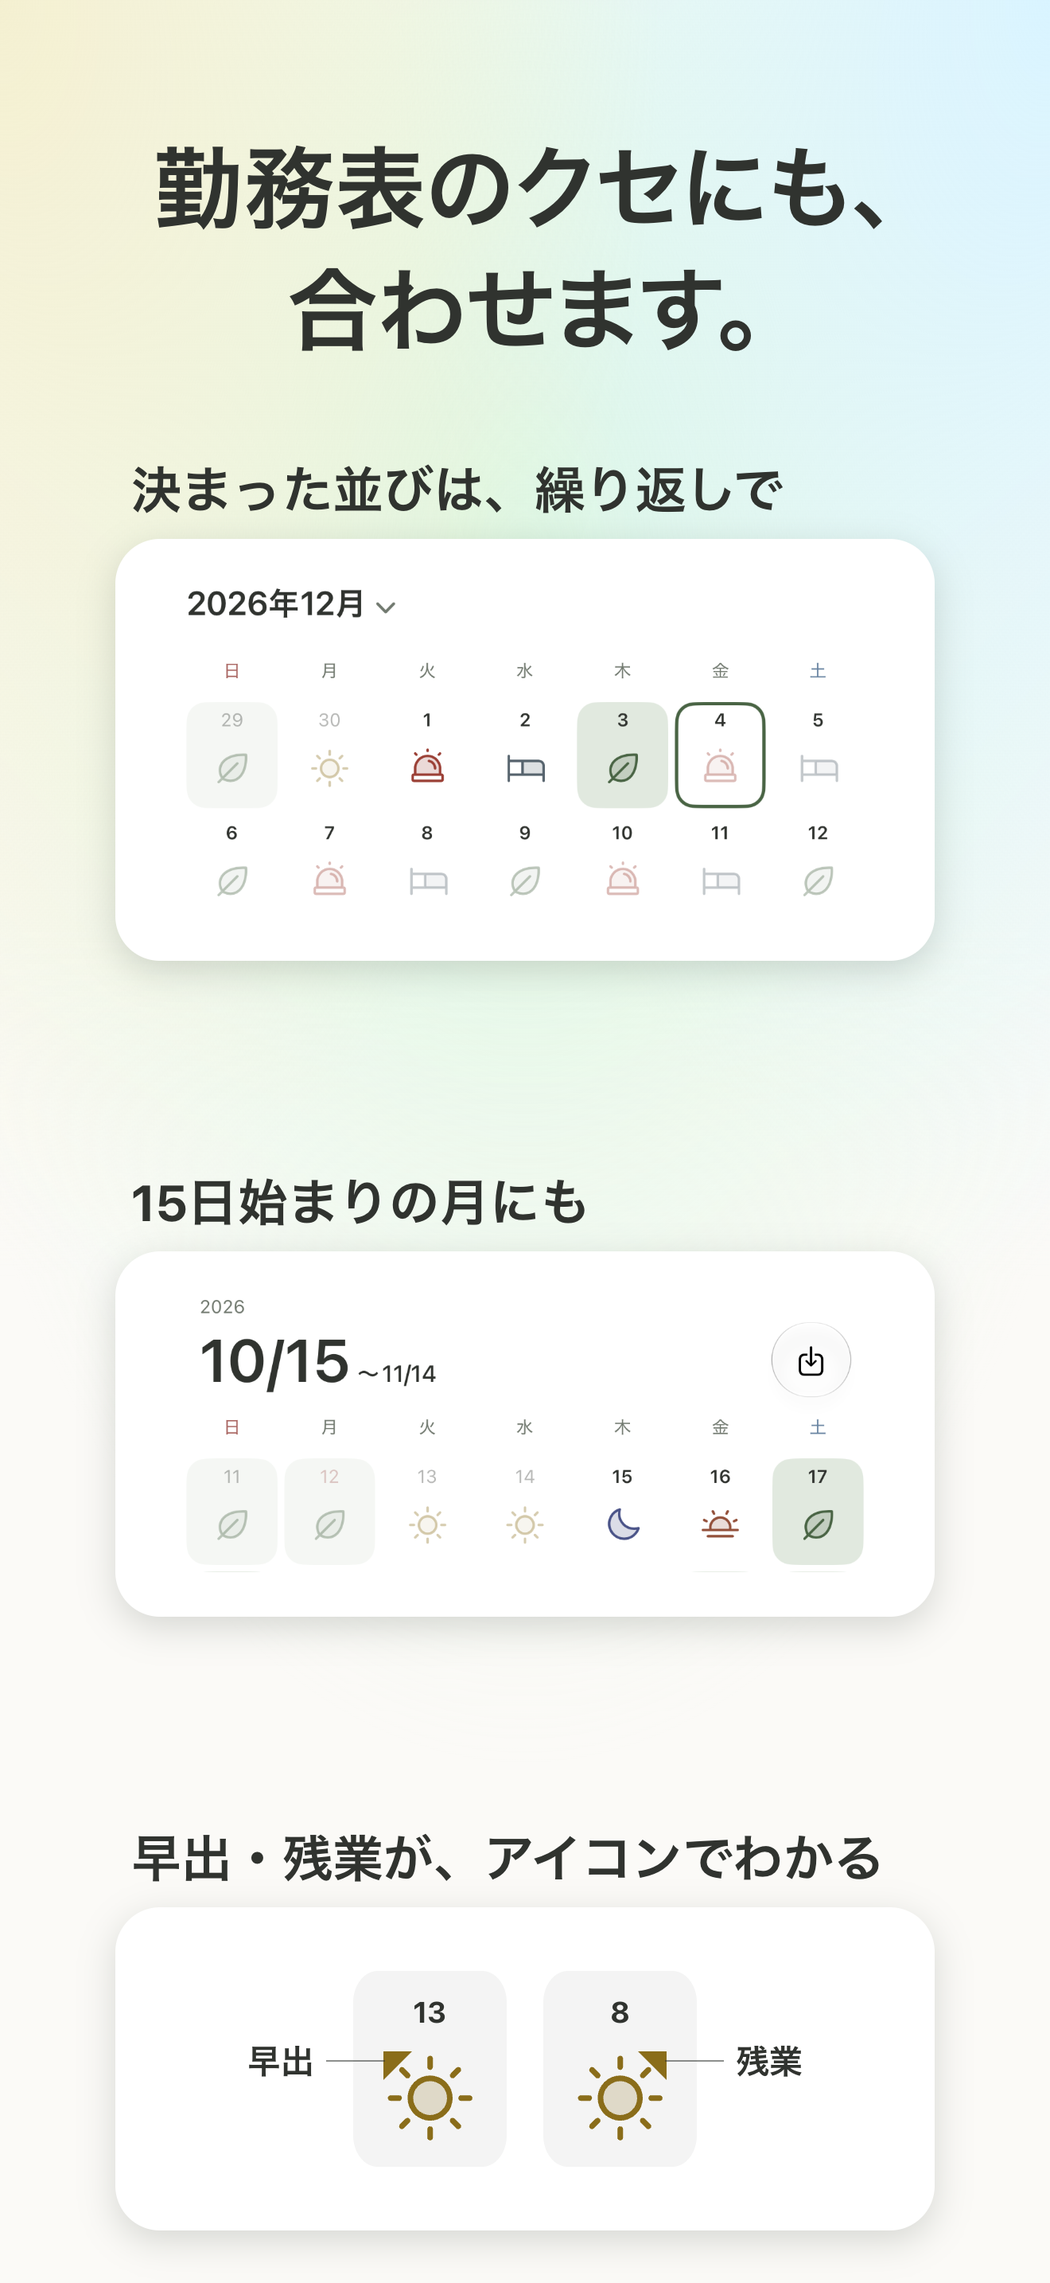
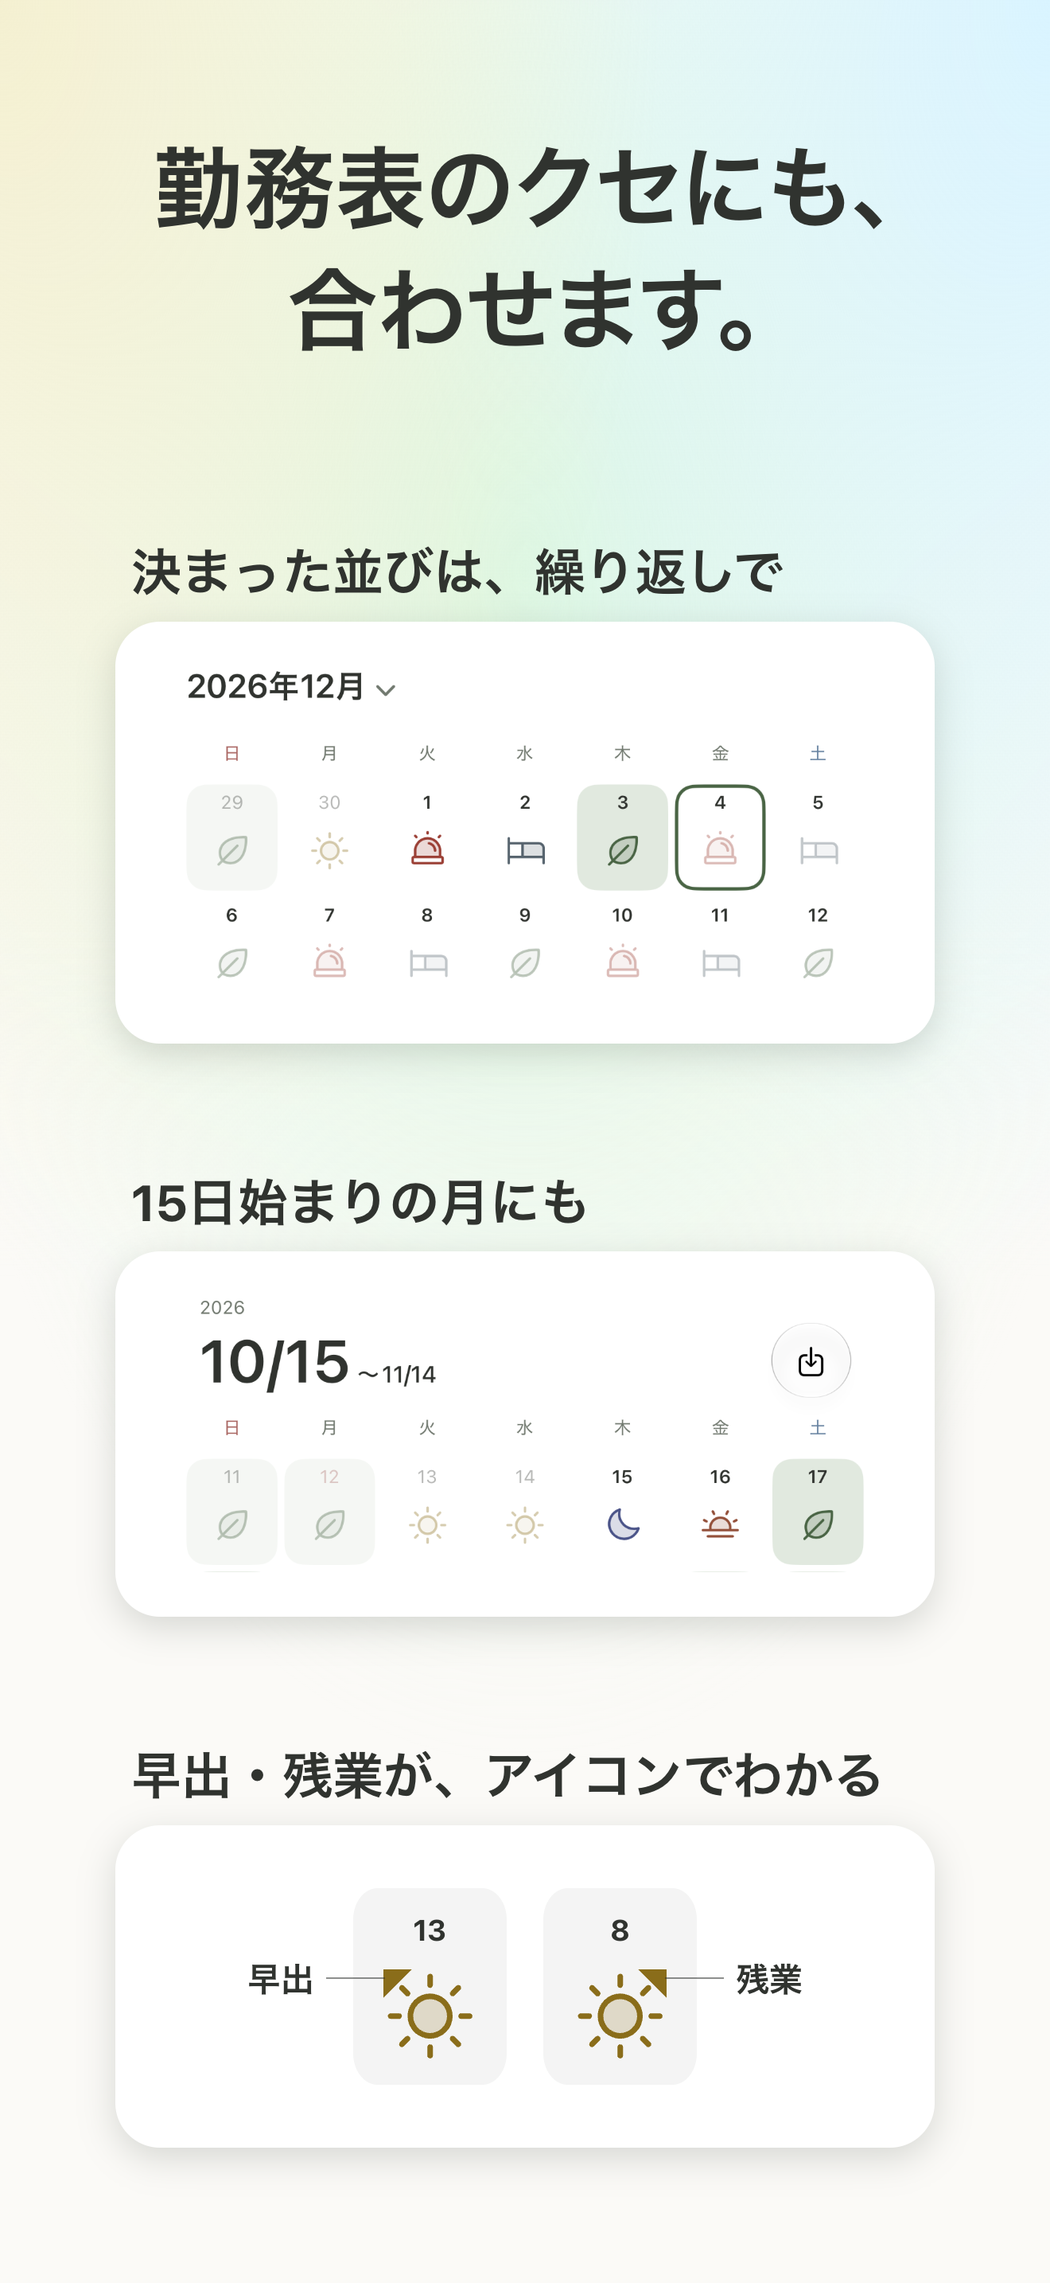
Store pictures: the tiles a group of their own in the App Store's taller picture, the room left over above and under them alike (#806)

diff --git a/apps/design/src/routes/_tool/[_]render/store-shot.tsx b/apps/design/src/routes/_tool/[_]render/store-shot.tsx
@@ -83,7 +83,7 @@ const WIDGET_CELL = `calc(var(--u) * ${WALL_SHAPE.cell})`;
 const TILES = {
   gap: 8,
   line: 1.3,
-  most: 28,
+  most: 12,
   pad: 4.25,
   under: 1.6,
   widest: 78,
@@ -95,7 +95,8 @@ const TILES = {
 // holds a part as tall as `parts` says in its widths; they are as wide as
 // lets them all fit there with the least gap, and share the room they
 // leave evenly as the gaps between them, up to the most a gap may be,
-// beyond which the rest is sky at the foot.
+// beyond which the rest is sky over and under them alike: they are a group
+// of their own, not a phone, in a picture as tall as the App Store's.
 const tilesLie = (parts: number[], tall: number) => {
   const gaps = Math.max(parts.length - 1, 1);
   const room =
@@ -201,14 +202,15 @@ const styles = {
     paddingLeft: "calc(var(--u) * 1.5)",
     whiteSpace: "nowrap",
   }),
-  // The tiles one over the other, each as tall as its part is, from where a
-  // phone starts under the headline (tilesLie).
+  // The tiles one over the other, each as tall as its part is, in the middle
+  // of where a phone is under the headline (tilesLie).
   tiles: css({
     "& figure": { margin: 0 },
     alignItems: "center",
     display: "flex",
     flexDirection: "column",
     inset: `var(--headline) 0 calc(var(--u) * ${STAGE_FOOT})`,
+    justifyContent: "center",
     position: "absolute",
   }),
   // The widgets on a Home Screen's grid, tilted, running off every edge

diff --git a/AGENTS.md b/AGENTS.md
@@ -14,7 +14,7 @@ Pochical is a monorepo: native SwiftUI (`apps/ios`) and Jetpack Compose (`apps/a
   - ライセンス's list of libraries is generated by each app's build, never checked in (spec/calendar.md, ライセンス): on iOS by LicenseList's build plugin from the resolved Swift packages' checkouts (`PLL_SOURCE_PACKAGES_PATH` names them when `-clonedSourcePackagesDirPath` moves them, as CI's `ios` job does), on Android by AboutLibraries' Gradle plugin into each variant's `res/raw/aboutlibraries.json`, with what the app carries besides its dependencies in `apps/android/app/aboutlibraries/libraries`.
   - Icons: the marks' paths from Phosphor via `pnpm --dir design icon:marks`; the iOS app icons and the widgets' `PeekingPoodle` via `pnpm --dir packages/prototype icon:ios`, and Android's launcher icon (its `mipmap` layers and the background color) and the Play listing's 512-pixel icon (`apps/android/app/src/main/ic_launcher-playstore.png`) and the widgets' `widget_poodle` via `icon:android`, both painting with `scripts/app-icon.ts` as the site icon's `icon:site` does.
   - try's installable app (`apps/try/public/app`): the icons, iOS's launch images and the web app manifest via `pnpm --dir apps/try icon:app` (`scripts/app-assets.ts`), and the manifest's screenshots, the screens `src/lib/app-screenshots.ts` names, via `image:screens`, which photographs the app on a dev server of its own as apps/design's `image:share` photographs the share image, both through `@pochical/prototype`'s `scripts/photograph.ts`. A change to that list runs both.
-  - The stores' pictures (`store/screenshots/<store>`, Google Play's feature graphic, `store/feature-graphic.png`, and the App Store's product page header, `store/product-page-header.png`): the shots, their headlines and each store's size in `@pochical/prototype`'s `lib/store-shots.ts` → `ANDROID_SERIAL=emulator-<port> mise run store:screenshots`. It photographs the real apps' screens into `.build/store-screenshots/<store>`, under the same names on both platforms, each against a server it starts and `tools/store-screenshots/seed.ts` seeds with two groups made by one piece, the coworkers' and a group of friends, each person's photo one of the faces' drawings (`design/src/drawings`) (`store:shots:android`: `StoreScreenshots` on the running emulator `ANDROID_SERIAL` names, never a phone, the widgets drawn there by themselves from the app's own days; `store:shots:ios`: `StoreScreenshotTests` in a simulator of its own, `pochical-store`, the widgets put on its Home Screen), then draws each on the site's sky under its headline (`store:images`: apps/design's `image:store`, which photographs `/_render/store-shot` as `image:share` does the share image, for each store whose screens are there). The seed runs beside the capture: it makes the groups, writes their invitations, and writes the coworkers' chat only once the person photographed has joined, so the chat says every joining above its lines, and more lines than a screen holds keep them out of the picture, among them two photographs sent at once (`tools/store-screenshots/photos`, whose README names where each is from; a JPEG put there under the same name is sent in its place); the capture reads the chat to its latest line, opens it again, and photographs it there. The status bar says 9:41 in every picture, whenever the run is, and the chat's lines the time they were written; Android's is SystemUI's demo, entered once the emulator is on its Wi-Fi, as one entered in the seconds after a boot shows a second Wi-Fi icon to its end. Every look is set through the app's own settings: a raw file or folder named `-sumi` is in black and white (テーマ 墨, シフトの色 ワントーン, シフトの見た目 線, 休みの見せ方 印だけ, 色をつける日 off), one named `-letters` has the shifts as letters (シフトの見た目 文字, テーマ ソーダ), the rest as the app starts. The wall of widgets is placed by hand (the shot's `tiles`: which widget, in which look, in which cell of `WALL`), from every kind at each size it has for a Home Screen, those that can be set to someone set to a person and to the group too, and those today's shift changes on each of the sample's (a day off, 日勤, 夜勤, 明け: the capture enters it for today in ポチポチ入力 and photographs them in both looks before it enters the next), in the app's look and in 墨: medium and large widgets carry it, small ones are its accents. 次の休み counting to a day off, 次の休み on a day off and いまのシフト are marked `whole` and stand together where the eye lands, whole in each store's picture and in what every picture drawn from the wall shows on every device; no picture is beside itself. Entering a shift takes a day's own hours off it (早出, 残業) and 夜勤 gives the day after its 明け, and nothing is put back: every picture of the month is taken before the widgets, ポチポチ入力's among them, whose days taken out are entered again by the tray's keys and the month checked to say what it did before; the widgets' shifts go in the order that leaves each the days it shows as the sample has them. いまのシフト draws its ring only while a shift is on, so after the widgets a run enters one of the sample's shifts that is on at that hour and photographs that widget again, in the app's look, once it says the shift is on (before 9:00 that shift is the day before's 夜勤, which the month's page has no day for on the 1st: the run is not started then, and says to run from 9:00). A widget is photographed once it says the days it is to show (iOS; Android draws it from what the app holds then), and a run fails when a widget asked for is not there, when the seed's last checks fail, when the port already has a server, or when the emulator's settings are not all put back. The friends' group is joined as まい with ひよこ picked for a face, in place of the drawing a new person is given at random, and the coworkers' as 佐藤, there alone. A shot of one screen may lift the part its headline is about (its `callout`): the capture measures that part by its element, and every piece of the screen that says something, into `<raw>.json` (on Android as Compose lays them out, the accessibility tree giving a button smaller than a finger the larger place it takes touches in), and the picture draws the part again, larger (as large as keeps a row as wide as the screen inside the picture, 1.35 times at most), on a card over where it is in the phone; a piece the card would lie over a part of, on any side, it takes in whole, so nothing shows cut beside it, and the part is drawn in the card's middle, whole lines of the screen with their own room. The friends' table lifts the days everyone is off, the chat its poll's line (on iOS with the line that asks for it), 端末カレンダーに追加 its 自動で反映. The details' shot and the cares' are three tiles each, from where a phone starts under the headline to where it ends, the room they leave shared evenly between them up to the most a gap may be, a tile a card of the picture's with room inside it, on the ground of what it holds: a part of a screen its platform's UI test cuts at whole rows, from the top of one of the screen's own pieces to the foot of another, or pieces the page draws from the app's own marks, larger than a screen has them, with words and lines of the picture's that say what happens (the shot's `pieces`). Each tile holds only what makes its point. A part's file is named for what it is (`tile-<what>.png`), not for the shot it is in. The details', how a roster itself is: two weeks of 繰り返しを直す on a fixed cycle, a run's last step but one as it changes the job, to the ready-made 当番・非番・休み from next month's 1st, 当番 and 休み then named 当務 and 週休; the first week of a page of a シフトの期間 from the 15th under its heading, set in 設定 and put back; and a day of 早出 and one of 残業 with their marks' corners named, drawn. The cares', what the app does for the person: 夜勤's key pressed and the two days it fills, the second the app's doing, drawn; リマインド's reminder of the evening before, the next notification as its page draws it, before anything is changed; and グループの設定's rows of a group with an end, 忘年会, made in グループを作る with the day 終了日をつける offers, a run's very last step as it leaves a group. The wall is drawn in other pictures too, the list `WALL_PICTURES`: each its name, size, file, the store whose widgets it shows, where the wall lies in it (`lie`, as in a store's picture without), the line it carries (`line`, the wall clearing to the sky around it, none without) and the part of it every device shows (`safe`, which holds the line and the widgets marked `whole`, anywhere without). The App Store's product page header is the first: the wall across 3840×1646, the site's line beside the three widgets, both inside the art safe area measured from Apple's template. A change to that page or to a headline runs `store:images` alone, the screens still in `.build`; a change to an app's screens runs its `store:shots:*` and `store:images`.
+  - The stores' pictures (`store/screenshots/<store>`, Google Play's feature graphic, `store/feature-graphic.png`, and the App Store's product page header, `store/product-page-header.png`): the shots, their headlines and each store's size in `@pochical/prototype`'s `lib/store-shots.ts` → `ANDROID_SERIAL=emulator-<port> mise run store:screenshots`. It photographs the real apps' screens into `.build/store-screenshots/<store>`, under the same names on both platforms, each against a server it starts and `tools/store-screenshots/seed.ts` seeds with two groups made by one piece, the coworkers' and a group of friends, each person's photo one of the faces' drawings (`design/src/drawings`) (`store:shots:android`: `StoreScreenshots` on the running emulator `ANDROID_SERIAL` names, never a phone, the widgets drawn there by themselves from the app's own days; `store:shots:ios`: `StoreScreenshotTests` in a simulator of its own, `pochical-store`, the widgets put on its Home Screen), then draws each on the site's sky under its headline (`store:images`: apps/design's `image:store`, which photographs `/_render/store-shot` as `image:share` does the share image, for each store whose screens are there). The seed runs beside the capture: it makes the groups, writes their invitations, and writes the coworkers' chat only once the person photographed has joined, so the chat says every joining above its lines, and more lines than a screen holds keep them out of the picture, among them two photographs sent at once (`tools/store-screenshots/photos`, whose README names where each is from; a JPEG put there under the same name is sent in its place); the capture reads the chat to its latest line, opens it again, and photographs it there. The status bar says 9:41 in every picture, whenever the run is, and the chat's lines the time they were written; Android's is SystemUI's demo, entered once the emulator is on its Wi-Fi, as one entered in the seconds after a boot shows a second Wi-Fi icon to its end. Every look is set through the app's own settings: a raw file or folder named `-sumi` is in black and white (テーマ 墨, シフトの色 ワントーン, シフトの見た目 線, 休みの見せ方 印だけ, 色をつける日 off), one named `-letters` has the shifts as letters (シフトの見た目 文字, テーマ ソーダ), the rest as the app starts. The wall of widgets is placed by hand (the shot's `tiles`: which widget, in which look, in which cell of `WALL`), from every kind at each size it has for a Home Screen, those that can be set to someone set to a person and to the group too, and those today's shift changes on each of the sample's (a day off, 日勤, 夜勤, 明け: the capture enters it for today in ポチポチ入力 and photographs them in both looks before it enters the next), in the app's look and in 墨: medium and large widgets carry it, small ones are its accents. 次の休み counting to a day off, 次の休み on a day off and いまのシフト are marked `whole` and stand together where the eye lands, whole in each store's picture and in what every picture drawn from the wall shows on every device; no picture is beside itself. Entering a shift takes a day's own hours off it (早出, 残業) and 夜勤 gives the day after its 明け, and nothing is put back: every picture of the month is taken before the widgets, ポチポチ入力's among them, whose days taken out are entered again by the tray's keys and the month checked to say what it did before; the widgets' shifts go in the order that leaves each the days it shows as the sample has them. いまのシフト draws its ring only while a shift is on, so after the widgets a run enters one of the sample's shifts that is on at that hour and photographs that widget again, in the app's look, once it says the shift is on (before 9:00 that shift is the day before's 夜勤, which the month's page has no day for on the 1st: the run is not started then, and says to run from 9:00). A widget is photographed once it says the days it is to show (iOS; Android draws it from what the app holds then), and a run fails when a widget asked for is not there, when the seed's last checks fail, when the port already has a server, or when the emulator's settings are not all put back. The friends' group is joined as まい with ひよこ picked for a face, in place of the drawing a new person is given at random, and the coworkers' as 佐藤, there alone. A shot of one screen may lift the part its headline is about (its `callout`): the capture measures that part by its element, and every piece of the screen that says something, into `<raw>.json` (on Android as Compose lays them out, the accessibility tree giving a button smaller than a finger the larger place it takes touches in), and the picture draws the part again, larger (as large as keeps a row as wide as the screen inside the picture, 1.35 times at most), on a card over where it is in the phone; a piece the card would lie over a part of, on any side, it takes in whole, so nothing shows cut beside it, and the part is drawn in the card's middle, whole lines of the screen with their own room. The friends' table lifts the days everyone is off, the chat its poll's line (on iOS with the line that asks for it), 端末カレンダーに追加 its 自動で反映. The details' shot and the cares' are three tiles each, within where a phone is under the headline, the room they leave shared evenly between them up to the most a gap may be and the rest left over and under them alike, a tile a card of the picture's with room inside it, on the ground of what it holds: a part of a screen its platform's UI test cuts at whole rows, from the top of one of the screen's own pieces to the foot of another, or pieces the page draws from the app's own marks, larger than a screen has them, with words and lines of the picture's that say what happens (the shot's `pieces`). Each tile holds only what makes its point. A part's file is named for what it is (`tile-<what>.png`), not for the shot it is in. The details', how a roster itself is: two weeks of 繰り返しを直す on a fixed cycle, a run's last step but one as it changes the job, to the ready-made 当番・非番・休み from next month's 1st, 当番 and 休み then named 当務 and 週休; the first week of a page of a シフトの期間 from the 15th under its heading, set in 設定 and put back; and a day of 早出 and one of 残業 with their marks' corners named, drawn. The cares', what the app does for the person: 夜勤's key pressed and the two days it fills, the second the app's doing, drawn; リマインド's reminder of the evening before, the next notification as its page draws it, before anything is changed; and グループの設定's rows of a group with an end, 忘年会, made in グループを作る with the day 終了日をつける offers, a run's very last step as it leaves a group. The wall is drawn in other pictures too, the list `WALL_PICTURES`: each its name, size, file, the store whose widgets it shows, where the wall lies in it (`lie`, as in a store's picture without), the line it carries (`line`, the wall clearing to the sky around it, none without) and the part of it every device shows (`safe`, which holds the line and the widgets marked `whole`, anywhere without). The App Store's product page header is the first: the wall across 3840×1646, the site's line beside the three widgets, both inside the art safe area measured from Apple's template. A change to that page or to a headline runs `store:images` alone, the screens still in `.build`; a change to an app's screens runs its `store:shots:*` and `store:images`.
   - Workers' types: each Worker's `wrangler.jsonc` and the wrangler in `pnpm-lock.yaml`, with the workerd it pins → `mise run gen:worker-types`, which runs every workspace's `cf-typegen` (into `worker-configuration.d.ts` in `apps/server`, `apps/admin` and `apps/web`). A wrangler bump regenerates them too; CI runs `mise run worker-types:check`. A Worker with a `cf-typegen` and no secrets still declares `"secrets": { "required": [] }`, so its types never come from a computer's `.dev.vars` or `.env`.
   - SQL schemas are Drizzle and their migrations are generated, never written: D1 `apps/server/src/db/schema.ts` (`mise run db:generate -- --name <what>`; better-auth's tables via `mise run auth:schema` first), the Group DO `group-do-schema.ts` (`mise run group-do:generate`), the User DO `user-do-schema.ts` (`mise run user-do:generate`). CI runs `mise run db:check`.
 - The stores' listings are in `store/` (`store/README.md`): the texts of the App Store and Google Play, and the answers to their forms (`declarations.md`), entered into App Store Connect and Play Console by hand. `apps/design`'s tests hold each text to its store's limit; an answer changes in the PR that changes what the app does.
